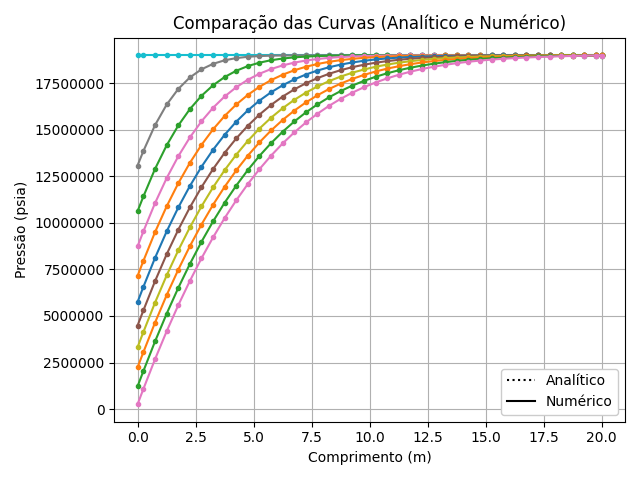
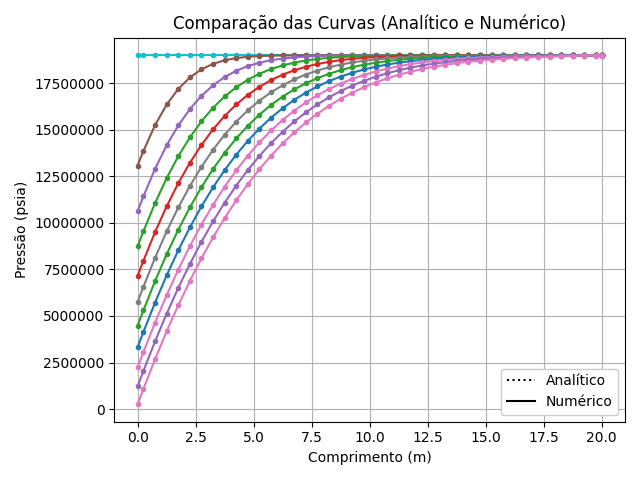
Simulador de Fluxo nas duas extremidades inserido. Falta apenas corrigir.

Changed region(s): [[0.1875, 0.0938, 0.9375, 0.8125]]

diff --git a/Sim_LinearFlow_CCFlowFlow.py b/Sim_LinearFlow_CCFlowFlow.py
@@ -1,0 +1,131 @@
+"""
+Simuladores para fluxo linear e radial - Métodos numéricos
+Condições de Contorno de Neumann - Fluxo no poço e na fronteira.
+
+Método FTCS -- Forward in Time Centered Space
+"""
+import Functions
+import matplotlib.pyplot as plt
+import numpy as np
+import pandas as pd
+from pandas import DataFrame as Df
+import os
+from scipy.special import erfc
+
+
+class NumericalAnalysis:
+    def __init__(self, t: np.ndarray, well_class: object):
+        self.time = t
+        self.wellclass = well_class
+        self.start_simulate()
+
+    def plot_results(self, data: Df):
+        if not os.path.isdir(f'results\\Simulador_Fluxo-Fluxo'):
+            os.makedirs(f'results\\Simulador_Fluxo-Fluxo')
+
+        # Setting the mesh points as the dataframe index
+        index_for_dataframe = [round(self.wellclass.mesh[key], ndigits=3) for key in self.wellclass.mesh.keys()]
+        data = data.set_index(pd.Index(index_for_dataframe, name='x'))
+
+        time_to_plot = np.linspace(self.time[0], self.time[-1], 11)
+
+        for column in data.columns:
+            if column in time_to_plot:
+                plt.plot(data.index, data[column], label=f't = {int(column)}h')
+
+        plt.ticklabel_format(axis='y', style='plain')
+        plt.xlabel('Comprimento (m)')
+        plt.ylabel('Pressão (psia)')
+        plt.title('Flow-Flow [Numérico]')
+        plt.legend(framealpha=1)
+        plt.grid()
+        plt.tight_layout()
+        plt.savefig(f'results\\Simulador_Fluxo-Fluxo\\fluxo-fluxo_numerico.png')
+        plt.close()
+
+        data.to_excel(f'results\\Simulador_Fluxo-Fluxo\\fluxo-fluxo_numerico.xlsx')
+
+    def start_simulate(self):
+        pressure_df, col_idx, row_idx = Functions.create_dataframe(time=self.time, n_cells=self.wellclass.n_cells)
+
+        last_column = None
+        for i_col in col_idx:
+
+            if i_col == 0.0:
+                for i_row in row_idx:
+                    pressure_df.loc[i_row, i_col] = self.wellclass.initial_pressure
+                last_column = i_col
+
+            else:
+                for j_row in row_idx:
+
+                    if j_row == 0:  # Poço
+                        p0_t = pressure_df.loc[j_row + 1, last_column]  # pressão no ponto 1, tempo anterior.
+                        pressure_df.loc[j_row, i_col] = p0_t - (((self.wellclass.well_flow * self.wellclass.viscosity)
+                                                                 / (self.wellclass.permeability *
+                                                                    self.wellclass.res_area)) * self.wellclass.deltax / 2)
+
+                    elif j_row == self.wellclass.n_cells + 1:  # Fronteira externa
+                        a = (self.wellclass.injectflow * self.wellclass.viscosity) / \
+                            (self.wellclass.permeability * self.wellclass.res_area)
+                        b = self.wellclass.deltax / 2
+                        p_n = pressure_df.loc[j_row - 1, last_column]  # pressão no ponto N, no tempo anterior.
+                        pressure_df.loc[j_row, i_col] = p_n - (a * b)
+
+                    else:
+                        if j_row == 1:  # i = 1. Ponto central da primeira célula.
+                            p1_t = pressure_df.loc[j_row, last_column]  # pressão no ponto 1, tempo anterior.
+                            p2_t = pressure_df.loc[2, last_column]  # pressão no ponto 2, no
+                            # tempo anterior
+                            a = self.wellclass.eta * self.wellclass.rx * p2_t
+                            b = (1 - (self.wellclass.eta * self.wellclass.rx)) * p1_t
+                            c = self.wellclass.eta * self.wellclass.rx * self.wellclass.well_flow * \
+                                self.wellclass.viscosity * self.wellclass.deltax / \
+                                (self.wellclass.permeability * self.wellclass.res_area)
+                            pressure_df.loc[j_row, i_col] = a + b - c
+
+                        elif j_row == self.wellclass.n_cells:  # i = N. Ponto central da última célula.
+                            p_n_t = pressure_df.loc[j_row, last_column]  # pressão no ponto N, no tempo anterior.
+                            p_n_1_t = pressure_df.loc[j_row - 1, last_column]  # pressão no ponto N-1, no
+                            # tempo anterior
+                            a = - self.wellclass.eta * self.wellclass.rx * p_n_1_t
+                            b = (1 - (self.wellclass.eta * self.wellclass.rx)) * p_n_t
+                            c = - (self.wellclass.eta * self.wellclass.rx * self.wellclass.injectflow *
+                                   self.wellclass.viscosity * self.wellclass.deltax) / (self.wellclass.permeability *
+                                                                                        self.wellclass.res_area)
+                            pressure_df.loc[j_row, i_col] = a + b + c
+
+                        else:
+                            pi_t = pressure_df.loc[j_row, last_column]  # pressão no ponto i, no tempo anterior.
+                            pi_1 = pressure_df.loc[j_row - 1, last_column]  # pressão no ponto i-1, no
+                            # tempo anterior.
+                            pi_2 = pressure_df.loc[j_row + 1, last_column]  # pressão no ponto i+1, no
+                            # tempo anterior.
+                            a = self.wellclass.eta * self.wellclass.rx * pi_1
+                            b = (1 - (2 * self.wellclass.eta * self.wellclass.rx)) * pi_t
+                            c = self.wellclass.eta * self.wellclass.rx * pi_2
+                            pressure_df.loc[j_row, i_col] = a + b + c
+                last_column = i_col
+        self.plot_results(data=pressure_df)
+
+
+class InitializeData:
+    def __init__(self, initial_press: float, well_press: float, res_len: float, permeability: float, viscosity: float,
+                 porosity: float, compressibility: float, res_area: float, res_thick: float or int, wellflow: float,
+                 injectflow: float):
+        self.initial_pressure = initial_press
+        self.well_pressure = well_press
+        self.res_length = res_len
+        self.permeability = permeability
+        self.viscosity = viscosity
+        self.porosity = porosity
+        self.compressibility = compressibility
+        self.res_area = res_area
+        self.res_thickness = res_thick
+        self.well_flow = wellflow
+        self.injectflow = injectflow
+        self.eta = self.calc_eta()
+
+    def calc_eta(self) -> float:
+        eta = self.permeability / (self.viscosity * self.compressibility * self.porosity)
+        return eta

diff --git a/main_SimToFlowFlow.py b/main_SimToFlowFlow.py
@@ -1,8 +1,7 @@
 """
-Main for Cases to Simulate Linear Flow Monofase 1D - EDH _ Condição de Neumann no Poço e de Dirichlet na Extremidade da
-Fronteira
+Main for Cases to Simulate Linear Flow Monofase 1D - EDH _ Condições de Neumann nas duas Extremidades
 """
-import Sim_LinearFlow_CCFlowPress as Sim_fp
+import Sim_LinearFlow_CCFlowFlow as Sim_ff
 import Functions
 import numpy as np
 import pandas as pd
@@ -18,12 +17,13 @@ compressibi = 2.04e-9
 area = 30.
 thickness = 10.
 wellflow = 0.01
+injectivityflow = 0.01
 
 ''' Inicializando simuladores Pressão - Pressão -------------------------------------------------------------------- '''
-case_to_sim = Sim_fp.InitializeData(initial_press=pressure_initial, well_press=pressure_well, res_area=area,
+case_to_sim = Sim_ff.InitializeData(initial_press=pressure_initial, well_press=pressure_well, res_area=area,
                                     res_thick=thickness, porosity=porosit, viscosity=viscosi,
                                     compressibility=compressibi, wellflow=wellflow, permeability=permeabi,
-                                    res_len=length_reser)
+                                    res_len=length_reser, injectflow=injectivityflow)
 
 ''' Discretização da malha ----------------------------------------------------------------------------------------- '''
 # Valores de discretização devem ser conferidos antes de rodar, por conta do critério de convergência. Caso os valores
@@ -32,9 +32,7 @@ t = np.linspace(start=0, stop=100, num=401)
 Functions.create_mesh(well_class=case_to_sim, n_cells=0, time_values=t, deltax=0.5)
 
 ''' Iniciando simulação para ambos os métodos - Analítico e Numérico ----------------------------------------------- '''
-Sim_fp.AnaliticalAnalysis(t=t, well_class=case_to_sim)
-
-Sim_fp.NumericalAnalysis(t=t, well_class=case_to_sim)
+Sim_ff.NumericalAnalysis(t=t, well_class=case_to_sim)
 
 ''' Aferição dos resultados e comparação --------------------------------------------------------------------------- '''
 root_results = r'results\Simulador_Fluxo-Pressao'
